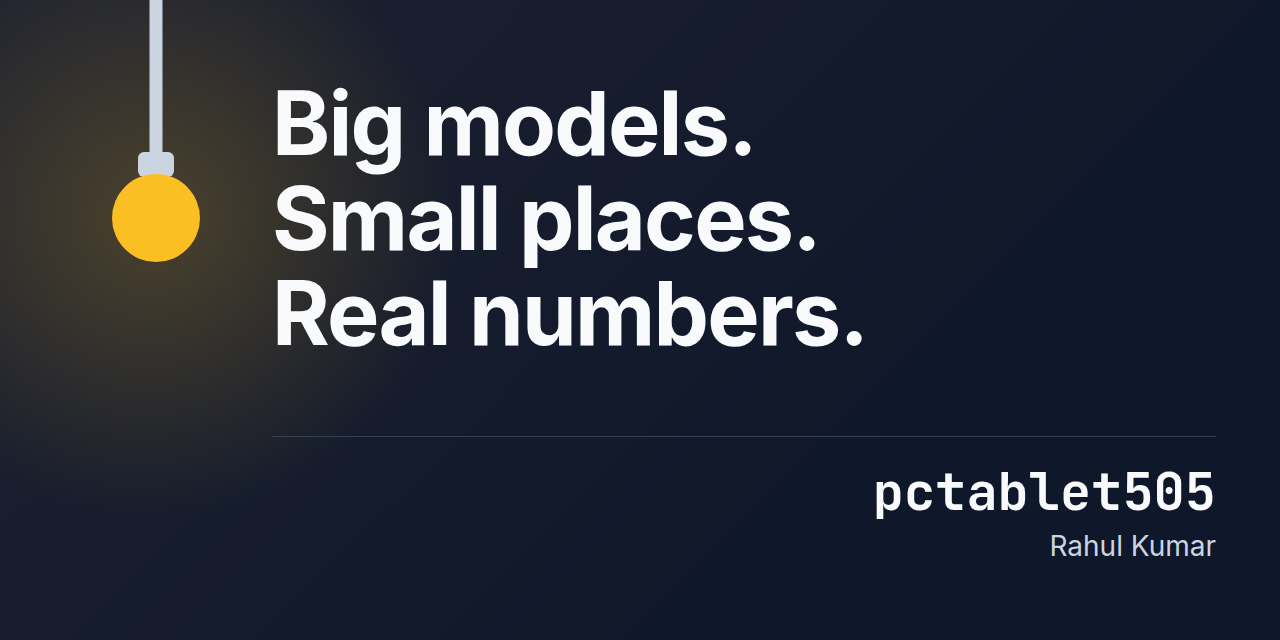
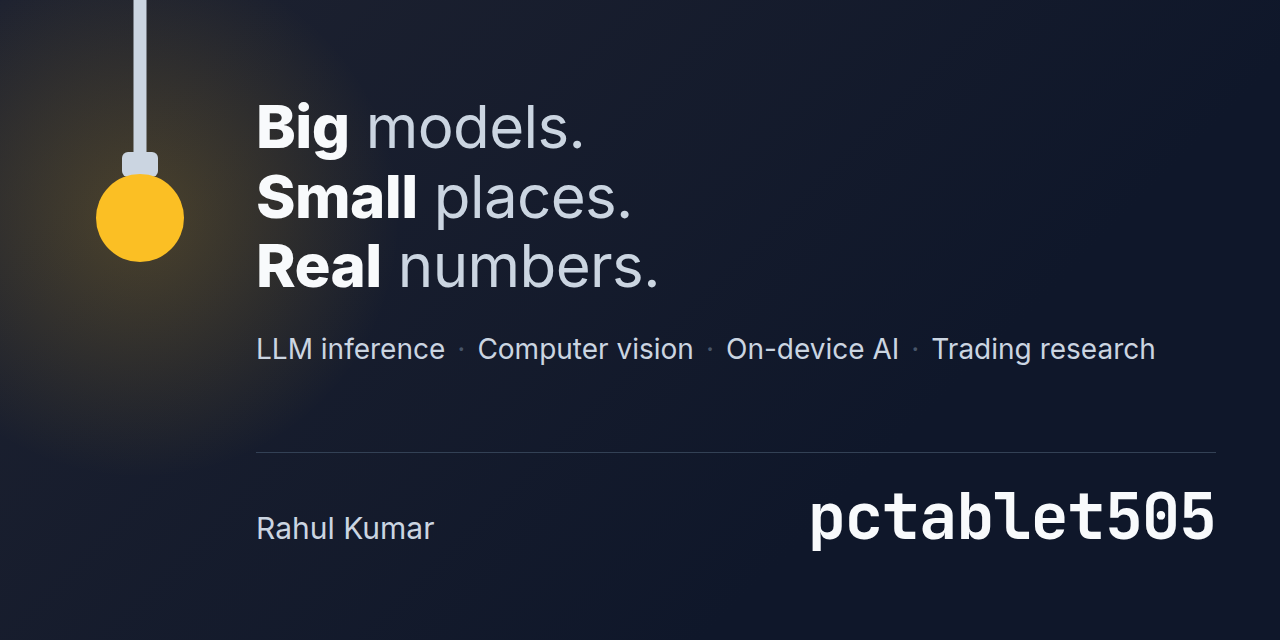
site: redraw the card with bold key words and focus labels; LinkedIn leads Contact
- The link-preview card returns to the earlier card's style. The slogan leads, with the first word of
  each line in bold. Four focus labels sit under it, and the name and the handle sign the foot. It has no job title.
- The four labels live in PROFILE.md as Identity `focus`; a new check allows at most four, with a test.
- The Contact section highlights LinkedIn; email and GitHub follow.

diff --git a/src/lib/profile.ts b/src/lib/profile.ts
@@ -109,6 +109,7 @@ export interface Identity {
   name: string;
   headline: string;
   lede?: string;
+  focus: string[];
   location: string;
   email?: string;
   links: Link[];
@@ -332,6 +333,8 @@ function check(p: Profile): string[] {
   }
   const id = p.identity;
   for (const k of ['handle', 'name', 'headline', 'location'] as const) if (!id[k]) errs.push(`PROFILE.md: Identity: missing ${k}`);
+  // The card has room for four labels on one line.
+  if (id.focus.length > 4 || id.focus.some((f) => !f.trim())) errs.push('PROFILE.md: Identity: focus takes at most four labels, none empty');
   for (const ref of id.proof) {
     const [eid, nid] = ref.split('.');
     if (!p.byId.get(eid)?.numbers.some((n) => n.id === nid)) errs.push(`PROFILE.md: Identity: proof "${ref}" points nowhere`);
@@ -359,6 +362,7 @@ export function parseProfile(raw: string): Profile {
         name: String(f.name ?? ''),
         headline: String(f.headline ?? ''),
         lede: str(f.lede),
+        focus: list<string>(f.focus).map(String),
         location: String(f.location ?? ''),
         email: str(f.email),
         links: list<Link>(f.links),

diff --git a/src/lib/profile.test.ts b/src/lib/profile.test.ts
@@ -54,3 +54,8 @@ test('a growth line without a numeric rate fails', () => {
   const bad = broken('{label: "NIFTY 500 index fund", rate: 11.67}', '{label: "NIFTY 500 index fund", rate: "11.67%"}');
   assert.throws(() => parseProfile(bad), /rl-alpha-labs: chart growth needs/);
 });
+
+test('a fifth focus label fails', () => {
+  const bad = broken('focus: [LLM inference, Computer vision, On-device AI, Trading research]', 'focus: [LLM inference, Computer vision, On-device AI, Trading research, Profiling]');
+  assert.throws(() => parseProfile(bad), /Identity: focus takes at most four labels/);
+});

diff --git a/PROFILE.md b/PROFILE.md
@@ -10,6 +10,8 @@ name: Rahul Kumar
 # The slogan, used on every profile; the lede is the short story under it, and the lamp is the symbol.
 headline: "Big models. Small places. Real numbers"
 lede: "The model you need rarely fits where it has to run, and the number you are shown is rarely the one that decides. I work on both: vision and sensing on phones, large models on one GPU, and trading research after costs and tax."
+# Four short labels under the slogan on the link-preview card, in the slogan's order.
+focus: [LLM inference, Computer vision, On-device AI, Trading research]
 location: India
 # The numbers the home page leads with, as entry-id.number-id: one per beat of the slogan.
 proof: [glm53-one-gpu.decode, damaged-barcodes.read-rate, drop-detection.parameters, rl-alpha-labs.tiers]

diff --git a/docs/PROFILE-FORMAT.md b/docs/PROFILE-FORMAT.md
@@ -97,7 +97,8 @@ link, if any), `image` (a file in `src/assets/`, if any). Open source entries: `
 `venue`, `url`, `related`, and `date` if known.
 
 Identity (no entries, one yaml block): `handle`, `name`, `headline` (the short line the home page leads with),
-`lede` (one or two sentences under it), `location`, `email`, `links` (each with a `priority`), `photo`, `resume`,
+`lede` (one or two sentences under it), `focus` (at most four short labels under the slogan on the link-preview
+card), `location`, `email`, `links` (each with a `priority`), `photo`, `resume`,
 `languages`, and `proof`: the numbers the home page leads with, written as `entry-id.number-id`.
 
 ## 3. Sections, in file order
